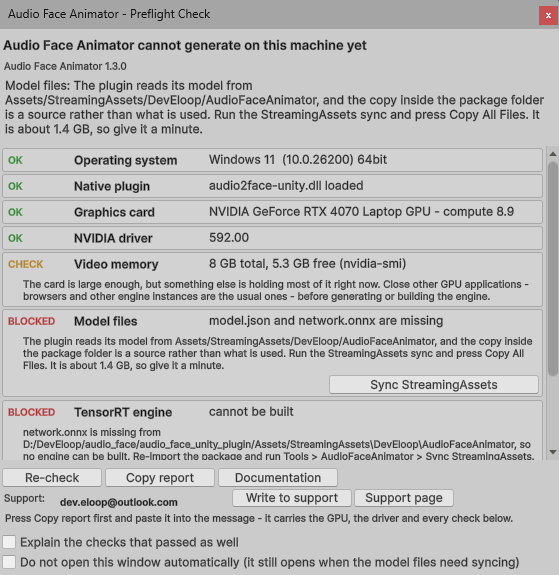
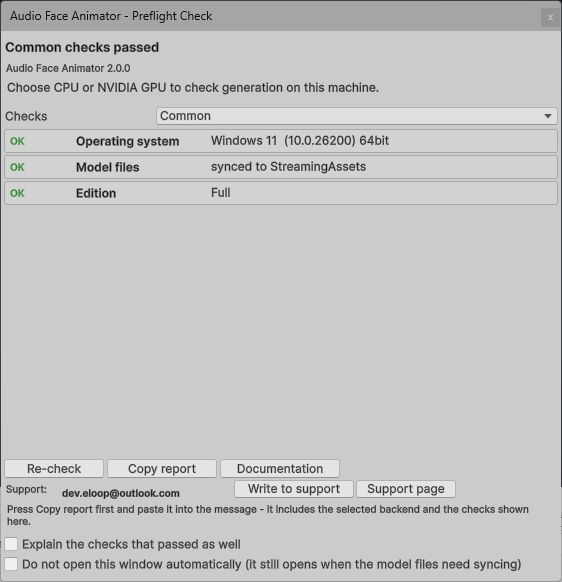
Refresh CPU documentation screenshots for Audio Face Animator 2.0

Changed region(s): [[0.0, 0.0, 1.0, 1.0], [0.9428, 0.0, 1.0, 0.0591], [0.9732, 0.9757, 1.0, 1.0]]

diff --git a/audio-face-animator/docs/index.md b/audio-face-animator/docs/index.md
@@ -4,7 +4,7 @@ title: Audio Face Animator documentation
 description: Complete documentation for Audio Face Animator — the Unity plugin that generates ARKit facial animation from audio on your own machine, using the NVIDIA Audio2Face-3D SDK. Setup, character mapping, emotions, eyes and blinking, the scripting API and troubleshooting.
 parent: Audio Face Animator
 parent_url: /audio-face-animator/
-updated: 2026-09-28
+updated: 2026-09-29
 nav_blurb: generate lip-sync and facial animation for a Unity character from an audio file, with NVIDIA Audio2Face
 ---
 
@@ -90,10 +90,19 @@ under **Tools → AudioFaceAnimator**. Full also adds *Setup TensorRT Engine*.
 Editor startup when common platform or model checks fail, including a fresh
 import whose model files have not been synced.
 
+![Audio Face Animator 2.0.0 Preflight Check in Common mode: operating system, model files and Full edition checks passed; select CPU or NVIDIA GPU to check the backend](/audio-face-animator/docs/img/face-animator-preflight-check.png){: width="562" height="582"}
+
 Automatic startup checks common platform and model requirements. Select
 **Checks > CPU** for CPU libraries and model readiness; in Full, select
 **Checks > NVIDIA GPU** separately for driver, GPU memory and TensorRT engine.
 Opening CPU diagnostics does not load the ONNX session.
+
+![CPU preflight ready to generate: Windows, synced model files, Full edition and CPU libraries passed; no CPU operation has run yet, and CPU logging uses Unity Console and Editor.log](/audio-face-animator/docs/img/preflight-cpu-ready.png){: width="562" height="582"}
+
+Before the first CPU generation, **CPU operation** can show **UNKNOWN** with
+“No CPU operation has completed in this domain.” This is operation history,
+not a failed readiness check; the headline above can still say **Ready to
+generate animation**.
 
 <div class="table-scroll" markdown="1">
 
@@ -284,9 +293,11 @@ Add it to the character root and drag every mapper into **Blendshapes
 Configuration → Blends Mappers**. Any renderer whose mapper is not listed will
 not move.
 
-![The Face Animator component with its Blends Mappers list expanded, showing five Face Blends Mapper references](/audio-face-animator/docs/img/face-animator-blends-mappers.png){: width="513" height="276"}
-
 ## Generate animation in Editor
+
+[![The version 2.0.0 sample scene with Claire selected: the Inspector on the right shows Generation Backend set to CPU, five Blends Mappers, an assigned Audio Clip, CPU readiness and the Open CPU Preflight Check button](/audio-face-animator/docs/img/face-animator-inspector.png){: width="1918" height="951"}](/audio-face-animator/docs/img/face-animator-inspector.png)
+
+*The Face Animator Inspector is on the right. Open the image for full-size labels.*
 
 **Model Type** — which Audio2Face-3D model generates the animation: **Claire**,
 **James** or **Mark**. Each was trained on a different performer and produces a
@@ -339,6 +350,8 @@ Animator or Timeline on any platform Unity builds for. Three things to know:
   the rest.
 
 ### The sample scene
+
+[![James playing a generated CPU animation in the sample scene, with model and CPU backend selectors, Prewarm, Generate, Play, Stop, Release CPU and Browse controls](/audio-face-animator/docs/img/sample-scene.png){: width="1920" height="1080"}](/audio-face-animator/docs/img/sample-scene.png)
 
 `Assets/DevEloop/AudioFaceAnimator/Scenes/AudioFaceAnimator.unity` has all three
 characters set up, a model selector, generation controls and a file browser for
